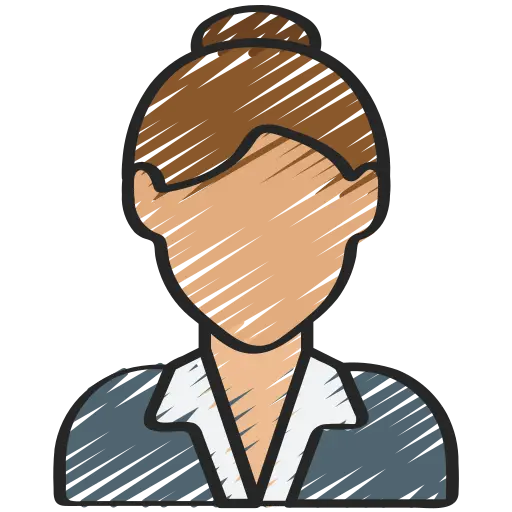
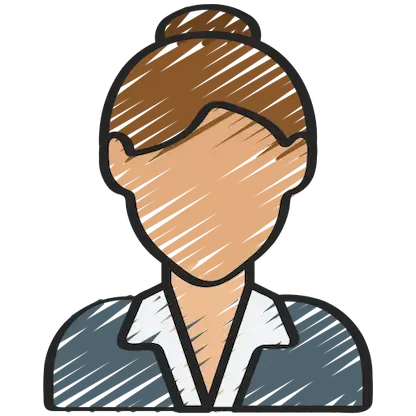
Optimisation

diff --git a/style.css b/style.css
@@ -63,14 +63,17 @@
 
 /* about */
 .imageAboutPage {
-    width: 100%;
-    margin-bottom: 3rem;
-}
-.imageAboutPage {
+    display: block;        
+    margin: 0 auto;       
+    width: 100%;           
+    max-width: 416px;     
+    height: auto;          
+    aspect-ratio: 1 / 1;   
+    object-fit: cover;     
     border-radius: 50%;
     box-shadow: 0 0 20px rgba(0, 0, 0, 0.5);
+    margin-bottom: 3rem;
 }
-
 /* skills */
 .skillsText.card {
     height: 380px;
